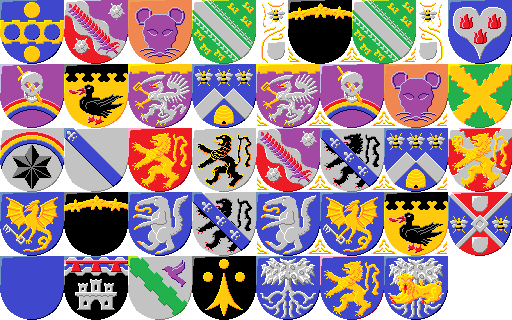
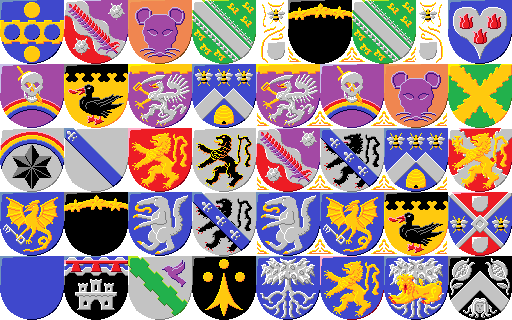
Added La Violeta

Changed region(s): [[0.875, 0.7812, 1.0, 1.0]]

diff --git a/src/armorial.js b/src/armorial.js
@@ -16,7 +16,8 @@ const arms = [
 	{name: 'Vaakkuna', href: 'vaakkuna', blazon: 'Or, beneath a chief nebuly a duck sable armed, langued, and beaked gules.'},
 	{name: 'Moman', href: 'moman', blazon: 'Azure, between in chief three bees proper and in base a beehive or a chevron burst argent.'},
 	{name: 'Gel Gems', href: 'gel', blazon: 'Purpure, resting upon a rainbow proper in base a skull argent pierced by a sword or.'},
-	{name: 'Fritzorino', href: 'fritz', blazon: 'Purpure, beneath a comble embattled or a griffin segreant argent beaked and armed or and langued gules holding a saber argent hilted gules and pommeled or'},
+	{name: 'Fritzorino', href: 'fritz', blazon: 'Purpure, beneath a comble embattled or a griffin segreant argent beaked and armed or and langued gules holding a saber argent hilted gules and pommeled or.'},
+	{name: 'La Violeta', href: 'lavioleta', blazon: 'Sable, between in chief two pomegranates slipped and leaves and in base a Gorgon head cabossed a chevron argent.'},
 ];
 
 const armorial = document.getElementById('armorial');
